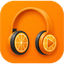
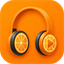
release: v1.2.17.28 紧急修复 bug

diff --git a/server/utils/dauReport.js b/server/utils/dauReport.js
@@ -15,9 +15,11 @@ import { getDeployEdition } from './filePaths.js'
 import {
   drainFeatureCounts,
   drainQualityCounts,
+  drainTagVolumes,
   peekClientSurface,
   restoreFeatureCounts,
   restoreQualityCounts,
+  restoreTagVolumes,
 } from './featureUsage.js'
 
 const __dirname = path.dirname(fileURLToPath(import.meta.url))
@@ -61,6 +63,29 @@ function installIdPath(configPath) {
 
 function lastBeatPath(configPath) {
   return path.join(configPath, 'dau-last-beat.json')
+}
+
+function installReportedPath(configPath) {
+  return path.join(configPath, 'dau-install-reported.json')
+}
+
+function hasInstallReported(configPath) {
+  try {
+    return fs.existsSync(installReportedPath(configPath))
+  } catch {
+    return false
+  }
+}
+
+function markInstallReported(configPath, event = 'install') {
+  try {
+    fs.mkdirSync(path.dirname(installReportedPath(configPath)), { recursive: true })
+    fs.writeFileSync(
+      installReportedPath(configPath),
+      JSON.stringify({ at: new Date().toISOString(), event }, null, 2),
+      'utf8',
+    )
+  } catch {}
 }
 
 export function getOrCreateInstallId(configPath = resolveConfigPath()) {
@@ -125,17 +150,19 @@ export async function reportDailyActive(opts = {}) {
   const configPath = opts.configPath || resolveConfigPath()
   const now = Date.now()
   const event = String(opts.event || 'heartbeat')
+  const isInstallEvent = event === 'install' || event === 'upgrade'
   const prev = lastBeatAt || readLastBeatAt(configPath) || now
   let activeSec = Math.floor((now - prev) / 1000)
   if (!Number.isFinite(activeSec) || activeSec < 0) activeSec = 0
-  if (event === 'boot') activeSec = 0
+  if (event === 'boot' || isInstallEvent) activeSec = 0
   if (activeSec > MAX_ACTIVE_SEC) activeSec = MAX_ACTIVE_SEC
 
   const { day, hour } = shanghaiParts(new Date(now))
   const installId = getOrCreateInstallId(configPath)
-  const features = drainFeatureCounts()
-  const quality = drainQualityCounts()
-  const clientSurfaceSnap = peekClientSurface()
+  const features = isInstallEvent ? {} : drainFeatureCounts()
+  const quality = isInstallEvent ? null : drainQualityCounts()
+  const tagVolumes = isInstallEvent ? [] : drainTagVolumes()
+  const clientSurfaceSnap = isInstallEvent ? null : peekClientSurface()
   const body = {
     installId,
     appVersion: getAppVersion(),
@@ -149,6 +176,7 @@ export async function reportDailyActive(opts = {}) {
   }
   if (Object.keys(features).length) body.features = features
   if (quality) body.quality = quality
+  if (tagVolumes?.length) body.tagVolumes = tagVolumes
   // 当日访问端绝对值（按登录用户 + UA 粗分）；失败无需回滚
   if (clientSurfaceSnap?.day) {
     body.clientSurface = {
@@ -176,18 +204,25 @@ export async function reportDailyActive(opts = {}) {
       signal: ac.signal,
     })
     if (!res.ok) {
-      restoreFeatureCounts(features)
-      restoreQualityCounts(quality)
+      if (!isInstallEvent) {
+        restoreFeatureCounts(features)
+        restoreQualityCounts(quality)
+        restoreTagVolumes(tagVolumes)
+      }
       const text = await res.text().catch(() => '')
       console.warn(`[dau] 上报失败 HTTP ${res.status}: ${text.slice(0, 160)}`)
       return { ok: false, status: res.status }
     }
     lastBeatAt = now
     writeLastBeatAt(configPath, now)
-    return { ok: true, day, hour, activeSec, event, features, quality, clientSurface: body.clientSurface }
+    if (isInstallEvent) markInstallReported(configPath, event)
+    return { ok: true, day, hour, activeSec, event, features, quality, tagVolumes, clientSurface: body.clientSurface }
   } catch (e) {
-    restoreFeatureCounts(features)
-    restoreQualityCounts(quality)
+    if (!isInstallEvent) {
+      restoreFeatureCounts(features)
+      restoreQualityCounts(quality)
+      restoreTagVolumes(tagVolumes)
+    }
     if (e?.name !== 'AbortError') {
       console.warn('[dau] 上报失败:', e?.message || e)
     }
@@ -199,7 +234,8 @@ export async function reportDailyActive(opts = {}) {
 }
 
 /**
- * 启动后上报 boot，并每 15 分钟 heartbeat。
+ * 启动后：若尚未上报过安装完成则先发 install，再 boot；并每 15 分钟 heartbeat。
+ * Docker / 旧 FPK（安装脚本未 curl）靠首次启动补报安装。
  * @param {{ configPath?: string }} [opts]
  */
 export function startDauReporter(opts = {}) {
@@ -221,7 +257,17 @@ export function startDauReporter(opts = {}) {
   }
 
   if (bootTimer) clearTimeout(bootTimer)
-  bootTimer = setTimeout(() => beat('boot'), BOOT_DELAY_MS)
+  bootTimer = setTimeout(() => {
+    const run = async () => {
+      try {
+        if (!hasInstallReported(configPath)) {
+          await reportDailyActive({ configPath, event: 'install', force: true })
+        }
+      } catch {}
+      beat('boot')
+    }
+    run().catch(() => beat('boot'))
+  }, BOOT_DELAY_MS)
   bootTimer.unref?.()
 
   if (timer) clearInterval(timer)

diff --git a/server/utils/featureUsage.js b/server/utils/featureUsage.js
@@ -34,6 +34,12 @@ const PREFIX_MAP = [
 /** @type {Record<string, number>} */
 const counts = Object.create(null)
 
+/** 标签批量操作的单次文件量（读/写/匹配等），供用量分层 */
+/** @type {number[]} */
+const tagVolumes = []
+const MAX_TAG_VOLUME_BUF = 200
+const MAX_TAG_VOLUME_ONE = 50_000
+
 /** @type {{ playOk: number, playFail: number, downloadOk: number, downloadFail: number }} */
 const quality = {
   playOk: 0,
@@ -162,6 +168,36 @@ export function recordFeature(key, n = 1) {
 }
 
 /**
+ * 记录标签编辑单次处理文件量（批量读/写/匹配等）
+ * @param {number} n
+ */
+export function recordTagVolume(n = 0) {
+  const v = Math.floor(Number(n) || 0)
+  if (!Number.isFinite(v) || v <= 0) return
+  tagVolumes.push(Math.min(v, MAX_TAG_VOLUME_ONE))
+  if (tagVolumes.length > MAX_TAG_VOLUME_BUF) {
+    tagVolumes.splice(0, tagVolumes.length - MAX_TAG_VOLUME_BUF)
+  }
+}
+
+/**
+ * @returns {number[]|null}
+ */
+export function drainTagVolumes() {
+  if (!tagVolumes.length) return null
+  const out = tagVolumes.splice(0, tagVolumes.length)
+  return out
+}
+
+/**
+ * @param {number[]|null|undefined} list
+ */
+export function restoreTagVolumes(list) {
+  if (!Array.isArray(list) || !list.length) return
+  for (const n of list) recordTagVolume(n)
+}
+
+/**
  * @param {'playOk'|'playFail'|'downloadOk'|'downloadFail'} kind
  * @param {number} [n=1]
  */
@@ -252,10 +288,30 @@ function isPlayUrlPath(pathname) {
 /**
  * Express 中间件：鉴权后按路由前缀计数；/play/url 按响应码记成功率；UA 记访问端。
  */
+function isTagCoverPath(pathname) {
+  const p = String(pathname || '').split('?')[0]
+  return p === '/tag/cover' || p.endsWith('/tag/cover')
+}
+
+function isTagOpenPath(pathname) {
+  const p = String(pathname || '').split('?')[0]
+  // 进入标签页会拉目录列表，记为「打开」
+  return p === '/tag/dirs' || p.endsWith('/tag/dirs')
+}
+
 export function featureUsageMiddleware(req, res, next) {
   try {
-    const key = featureKeyFromPath(req.path || '')
-    if (key) recordFeature(key)
+    const pathOnly = String(req.path || '').split('?')[0]
+
+    // 封面图请求极多，不计入标签编辑
+    if (!isTagCoverPath(pathOnly)) {
+      if (isTagOpenPath(pathOnly) && String(req.method || 'GET').toUpperCase() === 'GET') {
+        recordFeature('tagOpen')
+      } else {
+        const key = featureKeyFromPath(pathOnly)
+        if (key) recordFeature(key)
+      }
+    }
 
     const userId = req.user?.id
     if (userId != null && String(userId).trim()) {

diff --git a/server/routes/tag.js b/server/routes/tag.js
@@ -22,6 +22,7 @@ import {
   isMatchArtistAcceptable,
   mergeMatchMetaFillMissing,
 } from '../utils/pathAlbumHint.js'
+import { recordTagVolume } from '../utils/featureUsage.js'
 
 export const tagRouter = Router()
 
@@ -211,6 +212,7 @@ tagRouter.post('/read', async (req, res) => {
     const { filePath } = req.body
     if (!filePath || !fs.existsSync(filePath)) return res.status(400).json({ error: '文件不存在' })
     const meta = await readMeta(filePath)
+    recordTagVolume(1)
     res.json({ ok: true, data: meta })
   } catch (e) {
     res.status(500).json({ error: e.message })
@@ -230,6 +232,7 @@ tagRouter.post('/read-batch', async (req, res) => {
 
     if (lite) {
       const data = await readBatchFromCacheOrScan(filePaths)
+      recordTagVolume(filePaths.length)
       return res.json({ ok: true, data })
     }
 
@@ -251,6 +254,7 @@ tagRouter.post('/read-batch', async (req, res) => {
       }
       return { filePath, ok: false, error: lastErr?.message || '读取失败' }
     })
+    recordTagVolume(filePaths.length)
     res.json({ ok: true, data: results })
   } catch (e) {
     res.status(500).json({ error: e.message })
@@ -273,6 +277,7 @@ tagRouter.post('/write', async (req, res) => {
     await writeMeta(filePath, ext, writeData)
     await refreshCacheAfterTagWrite(filePath, writeData).catch(() => {})
     notifyLibraryChanged([filePath], { reason: 'tag-write' })
+    recordTagVolume(1)
     res.json({ ok: true })
   } catch (e) {
     console.error('[tag/write]', e.message)
@@ -300,6 +305,7 @@ tagRouter.post('/write-batch', async (req, res) => {
     const metaByPath = new Map(prepared.map((f) => [f.filePath, f.meta]))
     await Promise.all(written.map((fp) => refreshCacheAfterTagWrite(fp, metaByPath.get(fp) || {}).catch(() => {})))
     notifyLibraryChanged(written, { reason: 'tag-write-batch' })
+    recordTagVolume(files.length)
     res.json({ ok: true, data: results })
   } catch (e) {
     res.status(500).json({ error: e.message })
@@ -374,6 +380,7 @@ tagRouter.post('/scan', async (req, res) => {
       }
     }
 
+    recordTagVolume(enriched.length)
     res.json({
       ok: true,
       data: enriched,
@@ -578,6 +585,7 @@ tagRouter.post('/match-batch', async (req, res) => {
         return { filePath: file.filePath, ok: false, error: e.message }
       }
     })
+    recordTagVolume(files.length)
     res.json({ ok: true, data: results })
   } catch (e) {
     res.status(500).json({ error: e.message })

diff --git a/index.html b/index.html
@@ -14,11 +14,11 @@
   <meta name="description" content="飞牛 NAS 柠檬音乐：搜索、下载与本地音乐库" />
   <title>柠檬音乐下载</title>
   <link rel="manifest" href="/manifest.webmanifest" />
-  <link rel="icon" href="/favicon.ico?v=hp-transparent-2" sizes="any" />
-  <link rel="icon" href="/favicon.png?v=hp-transparent-2" type="image/png" sizes="48x48" />
-  <link rel="shortcut icon" href="/favicon.ico?v=hp-transparent-2" />
-  <link rel="apple-touch-icon" href="/apple-touch-icon.png?v=orange-tile-1" />
-  <link rel="apple-touch-icon" href="/pwa/icon-192.png?v=orange-tile-1" sizes="192x192" />
+  <link rel="icon" href="/favicon.ico?v=orange-tile-2" sizes="any" />
+  <link rel="icon" href="/favicon.png?v=orange-tile-2" type="image/png" sizes="64x64" />
+  <link rel="shortcut icon" href="/favicon.ico?v=orange-tile-2" />
+  <link rel="apple-touch-icon" href="/apple-touch-icon.png?v=orange-tile-2" />
+  <link rel="apple-touch-icon" href="/pwa/icon-192.png?v=orange-tile-2" sizes="192x192" />
 </head>
 <body>
   <div id="app"></div>

diff --git a/public/sw.js b/public/sw.js
@@ -1,7 +1,7 @@
 /* 柠檬音乐：仅缓存前端壳，不缓存 /api、/ws 与音频流
  * 多域名各自独立注册 SW；导航与 assets 均网络优先，避免旧壳引用已失效的 hash 资源导致白屏。
  */
-const CACHE = 'lemon-shell-v1.2.17.25'
+const CACHE = 'lemon-shell-v1.2.17.28-icons'
 
 const PRECACHE = [
   '/manifest.webmanifest',

diff --git a/src/utils/appIcon.js b/src/utils/appIcon.js
@@ -1,5 +1,5 @@
 /** 站内 UI / 浏览器图标；桌面 PWA 图标见 /pwa/ */
-export const APP_ICON_URL = '/icon.png?v=hp-transparent-2'
+export const APP_ICON_URL = '/icon.png?v=orange-tile-2'
 
 export function isAppIconUrl(url) {
   const s = String(url || '')

diff --git a/docs/RELEASE-NOTES.md b/docs/RELEASE-NOTES.md
@@ -1,4 +1,4 @@
-# 柠檬音乐 v1.2.17.27
+# 柠檬音乐 v1.2.17.28
 
 ## 更新内容
 
@@ -6,5 +6,5 @@
 
 ## 安装 / 更新
 
-- x86：`lemon-music-1.2.17.27-x86.fpk`
-- ARM：`lemon-music-1.2.17.27-arm.fpk`
+- x86：`lemon-music-1.2.17.28-x86.fpk`
+- ARM：`lemon-music-1.2.17.28-arm.fpk`

diff --git a/docs/github-release.md b/docs/github-release.md
@@ -1,4 +1,4 @@
-# 柠檬音乐 v1.2.17.27
+# 柠檬音乐 v1.2.17.28
 
 ## 更新内容
 
@@ -6,5 +6,5 @@
 
 ## 安装 / 更新
 
-- x86：`lemon-music-1.2.17.27-x86.fpk`
-- ARM：`lemon-music-1.2.17.27-arm.fpk`
+- x86：`lemon-music-1.2.17.28-x86.fpk`
+- ARM：`lemon-music-1.2.17.28-arm.fpk`

diff --git a/fpk/release-notes-v1.2.17.28.md b/fpk/release-notes-v1.2.17.28.md
@@ -1,0 +1,10 @@
+# 柠檬音乐 v1.2.17.28
+
+## 更新内容
+
+- 紧急修复 bug
+
+## 安装 / 更新
+
+- x86：`lemon-music-1.2.17.28-x86.fpk`
+- ARM：`lemon-music-1.2.17.28-arm.fpk`
